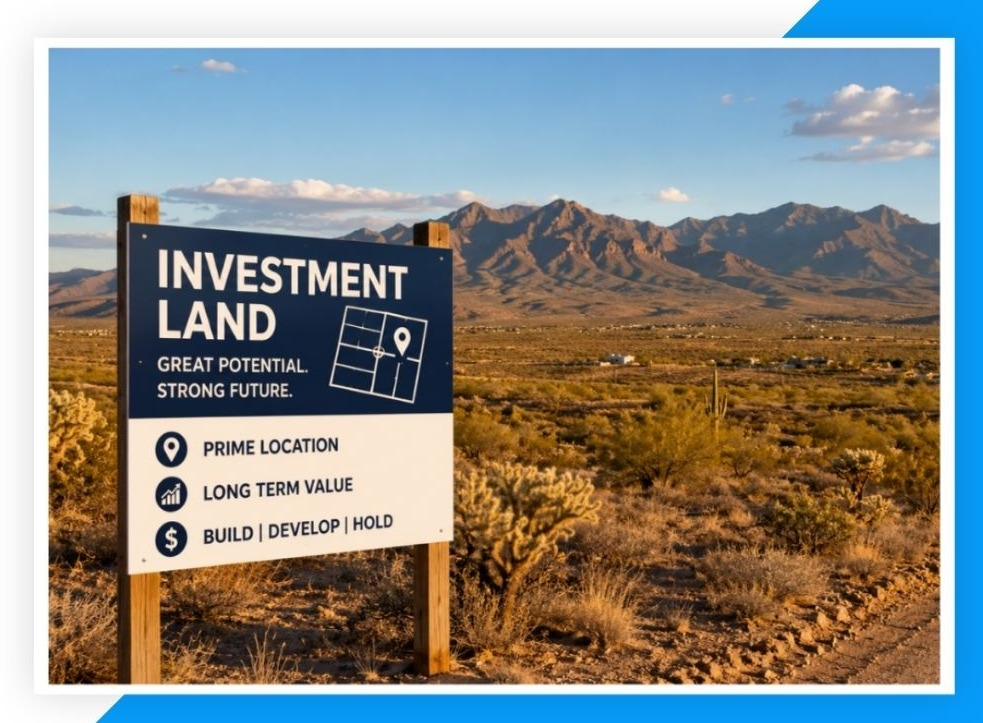
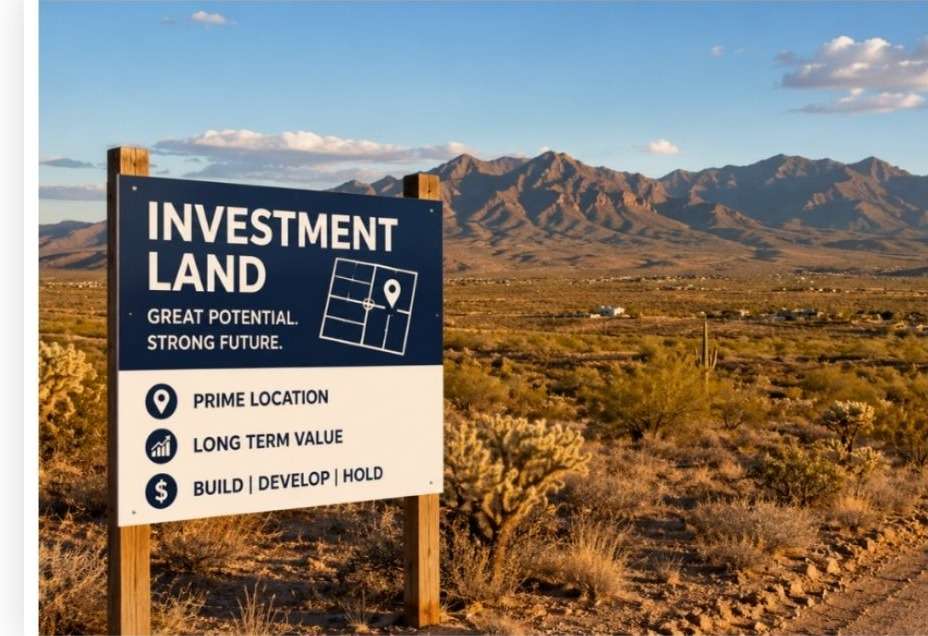
Add files via upload

diff --git a/styles2.css b/styles2.css
@@ -196,9 +196,9 @@ label.hamburger-btn{display:flex;}
 .mini-area-grid{
   position:relative; z-index:1;
   display:grid;
-  grid-template-columns:repeat(2, 1fr);
+  grid-template-columns:repeat(4, 1fr);
   gap:8px;
-  max-width:320px;
+  max-width:480px;
   margin-left:auto;
   margin-right:0;
 }
@@ -216,7 +216,7 @@ label.hamburger-btn{display:flex;}
 }
 .mini-area-card:hover img{transform:scale(1.06);}
 @media (max-width:860px){
-  .mini-area-grid{max-width:280px; margin:0 auto;}
+  .mini-area-grid{grid-template-columns:repeat(2,1fr); max-width:280px; margin:0 auto;}
 }
 
 /* ---- Card grid (Books) ---- */